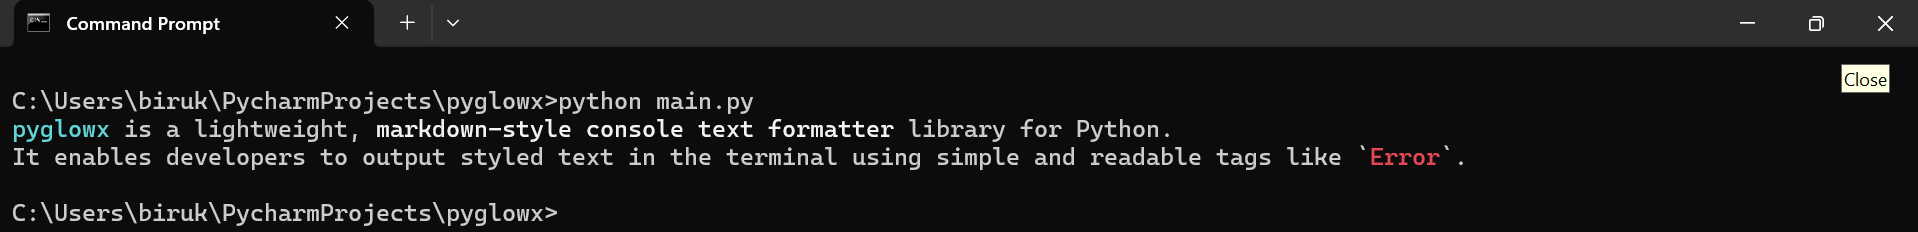
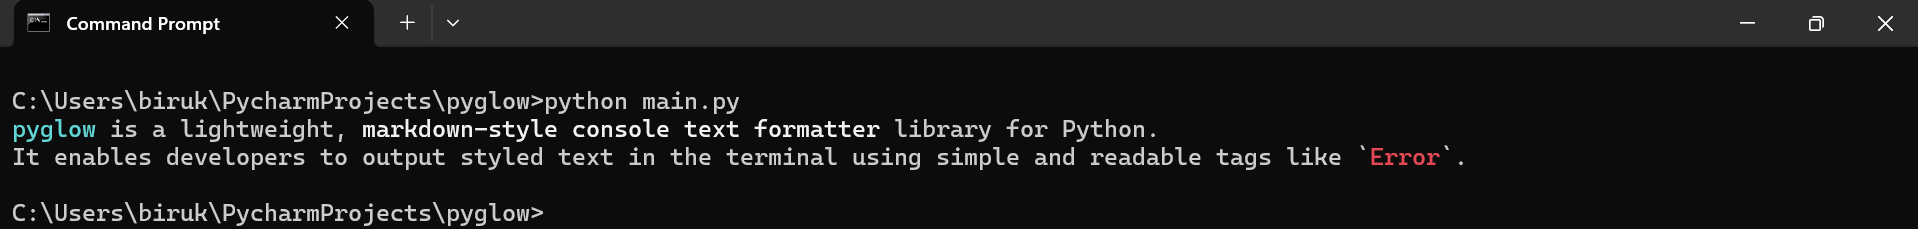
Initial Commit

diff --git a/main.py b/main.py
@@ -1,29 +1,33 @@
 from pyglowx.pyglowx import PyGlowx
 
+
 def main():
- PyGlowx.print("[green]Success: [bold]42 tests passed!!![/]")
+    PyGlowx.print("[green]Success: [bold]42 tests passed!!![/]")
 
- PyGlowx.print("[bg-yellow black italic]Warning:[/] Low disk space.")
+    PyGlowx.print("[bg-yellow black italic]Warning:[/] Low disk space.")
 
- PyGlowx.print("[red bold]Error:[/] Something went wrong!")
+    PyGlowx.print("[red bold]Error:[/] Something went wrong!")
 
- PyGlowx.prints(r"""
- _ __    _   _    __ _  | |   ___   __      __ __  __
-| '_ \  | | | |  / _` | | |  / _ \  \ \ /\ / / \ \/ /
-| |_) | | |_| | | (_| | | | | (_) |  \ V  V /   >  <
-| .__/   \__, |  \__, | |_|  \___/    \_/\_/   /_/\_\
+    PyGlowx.prints(r"""
+                         _
+ _ __    _   _    __ _  | |   ___   __      __
+| '_ \  | | | |  / _` | | |  / _ \  \ \ /\ / /
+| |_) | | |_| | | (_| | | | | (_) |  \ V  V /
+| .__/   \__, |  \__, | |_|  \___/    \_/\_/
 |_|      |___/   |___/
+
                """, "hex(#0e76e6) bold")
 
- PyGlowx.prints("Python Glow", "bold underline magenta")
- PyGlowx.print("[bg-black cyan]This is a test of the pyglowx library.[/]")
+    PyGlowx.prints("Python Glow", "bold underline magenta")
+    PyGlowx.print("[bg-black cyan]This is a test of the pyglow library.[/]")
 
- PyGlowx.print("[rgb(255,56,0) italic underline]Red text[/]")
- PyGlowx.print("[hex(#00FF00) bold dim]Green text[/]")
+    PyGlowx.print("[rgb(255,56,0) italic underline]Red text[/]")
+    PyGlowx.print("[hex(#00FF00) bold dim]Green text[/]")
 
- PyGlowx.print("[yellow bold strike]Task completed[/]")
+    PyGlowx.print("[yellow bold strike]Task completed[/]")
 
- PyGlowx.print("[yellow bold blink]Hey there do you like pyglowx?[/]")
+    PyGlowx.print("[yellow bold blink]Hey there do you like pyglow?[/]")
+
 
 if __name__ == "__main__":
     main()

diff --git a/README.md b/README.md
@@ -1,15 +1,15 @@
-# pyglowx
+# pyglow
 
-![GitHub Repo stars](https://img.shields.io/github/stars/BirukBelihu/pyglowx)
-![GitHub forks](https://img.shields.io/github/forks/BirukBelihu/pyglowx)
-![GitHub issues](https://img.shields.io/github/issues/BirukBelihu/pyglowx)
+![GitHub Repo stars](https://img.shields.io/github/stars/BirukBelihu/pyglow)
+![GitHub forks](https://img.shields.io/github/forks/BirukBelihu/pyglow)
+![GitHub issues](https://img.shields.io/github/issues/BirukBelihu/pyglow)
 [![PyPI Downloads](https://static.pepy.tech/badge/pyglowx)](https://pepy.tech/projects/pyglowx)<br>
 ![Python](https://img.shields.io/pypi/pyversions/pyglowx)
 
-**pyglowx** is a lightweight, cross-platform, markdown-style console text formatter library for python.
+**pyglow** is a lightweight, cross-platform, markdown-style console text formatter library for python.
 
 ---
-GitHub: [pyglowx](https://github.com/BirukBelihu/pyglowx)
+GitHub: [pyglow](https://github.com/BirukBelihu/pyglow)
 ---
 
 ## ✨ Features
@@ -33,19 +33,19 @@ GitHub: [pyglowx](https://github.com/BirukBelihu/pyglowx)
 pip install pyglowx
 ```
 
-You can also install pyglowx from source code. source code may not be stable, but it will have the latest features and
+You can also install pyglow from source code. source code may not be stable, but it will have the latest features and
 bug fixes.
 
 Clone the repository:
 
 ```
-git clone https://github.com/birukbelihu/pyglowx.git
+git clone https://github.com/birukbelihu/pyglow.git
 ```
 
 Go inside the project directory:
 
 ```bash
-cd pyglowx
+cd pyglow
 ```
 
 Install pyglow:
@@ -59,30 +59,30 @@ pip install -e .
 ## 🧠 Example Usage
 
 ```python
-from pyglowx.pyglowx import PyGlowx
+from pyglow.pyglow import pyglow
 
-PyGlowx.print("[cyan bold]pyglowx[/] is a lightweight, [bold]markdown-style console text formatter[/] library for Python. \nIt enables developers to output styled text in the terminal using simple and readable tags like `[red bold]Error[/]`.")
+pyglow.print("[cyan bold]pyglow[/] is a lightweight, [bold]markdown-style console text formatter[/] library for Python. \nIt enables developers to output styled text in the terminal using simple and readable tags like `[red bold]Error[/]`.")
 ```
 
 ### Output
 
-![PyGlowX Output](images/sample_2.png)
+![pyglow Output](images/sample_2.png)
 
 ---
 
 ## 📦 Library Overview
 
-| Function                              | Description                                               |
-|---------------------------------------|-----------------------------------------------------------|
-| `PyGlowx.parse(str text)`             | Converts your markdown-style tags to ANSI-coded string    |
-| `PyGlowx.print(str text)`             | Prints the text with the provided style tags              |
-| `PyGlowx.prints(str text, str style)` | Prints the text with a provided style for the entire text |
+| Function                             | Description                                               |
+|--------------------------------------|-----------------------------------------------------------|
+| `pyglow.parse(str text)`             | Converts your markdown-style tags to ANSI-coded string    |
+| `pyglow.print(str text)`             | Prints the text with the provided style tags              |
+| `pyglow.prints(str text, str style)` | Prints the text with a provided style for the entire text |
 
 ---
 
 ## 📄 Demo & Documentation
 
-Check out [main.py](https://github.com/birukbelihu/pyglowx/blob/master/main.py) for:
+Check out [main.py](https://github.com/birukbelihu/pyglow/blob/master/main.py) for:
 
 - ✅ Full usage examples
 - ✅ Tag reference documentation
@@ -92,7 +92,7 @@ Check out [main.py](https://github.com/birukbelihu/pyglowx/blob/master/main.py) 
 
 ## 🙌 Contribute
 
-Want to improve `pyglowx`? Contributions are welcome!
+Want to improve `pyglow`? Contributions are welcome!
 
 ---
 
@@ -110,4 +110,4 @@ Made with ❤ by **[BirukBelihu](https://github.com/birukbelihu)**
 ## 📄 License
 
 This project is licensed under the **Apache License 2.0**. See
-the [LICENSE](https://github.com/birukbelihu/pyglowx/blob/master/LICENSE) file for details.
+the [LICENSE](https://github.com/birukbelihu/pyglow/blob/master/LICENSE) file for details.
